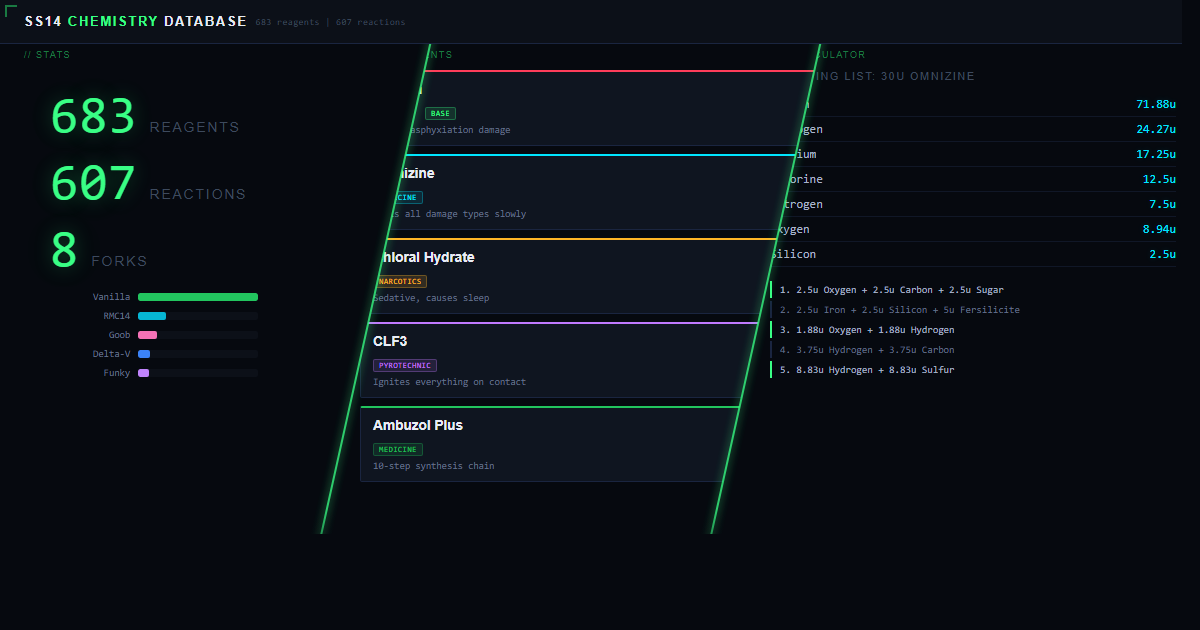
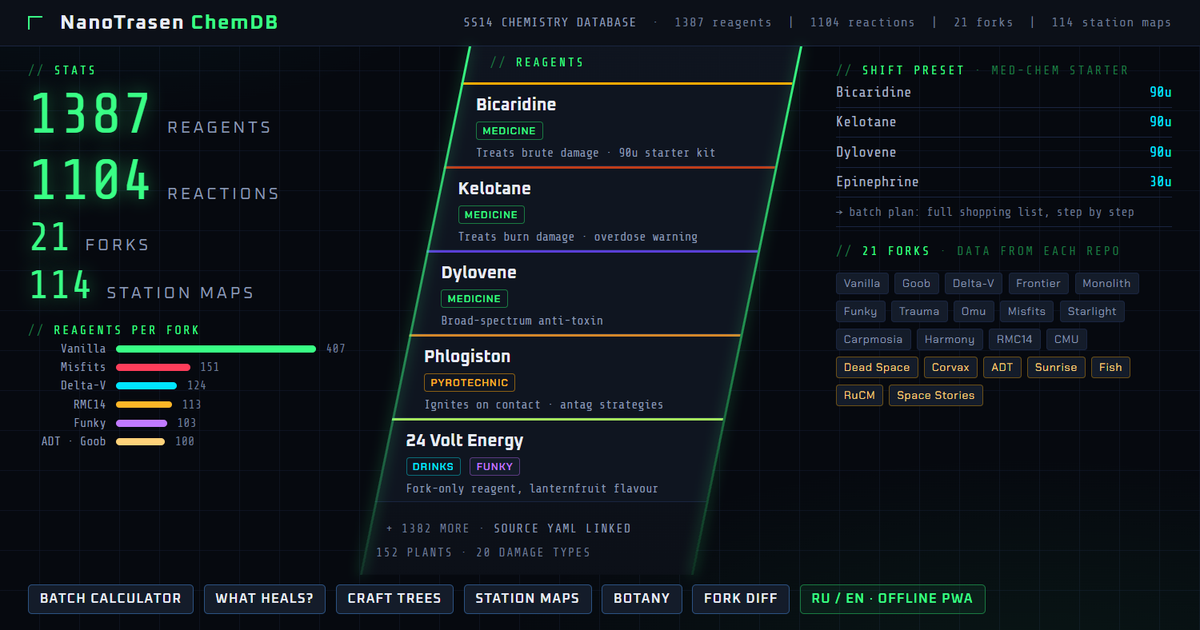
feat(seo): refresh the link-preview image
og-image.png was the April composition (683 reagents, 607 reactions,
8 forks). Re-rendered at 1200x630 from scripts/og-image.html on the site's
own palette and fonts: 1387 reagents, 1104 reactions, 21 forks, 114 station
maps, reagent cards, the med-chem starter preset, all 21 fork chips and the
current feature row. The matching og:image ?v=2 cache-bust and description
update in index.html landed in 69d7130.

diff --git a/scripts/og-image.html b/scripts/og-image.html
@@ -1,0 +1,160 @@
+<!doctype html>
+<!--
+  Source of og-image.png (1200x630 link preview for Discord / Steam / Twitter).
+  Numbers are hand-written from data.json meta (reagents, reactions, forks) and
+  maps/index.json (station maps): refresh them, then render:
+    1. open this file in Chrome at exactly 1200x630 CSS px (Google Fonts must load);
+    2. screenshot the viewport (a 1.25 DPR capture is 1500x788 - downscale with LANCZOS);
+    3. save as og-image.png and bump ?v=N on og:image / twitter:image in index.html
+       so Discord and Steam refetch the preview instead of serving their cache.
+  Last rendered 2026-09-12 (data.json schema 3.12.0).
+-->
+<html lang="en">
+<head>
+<meta charset="utf-8">
+<title>og-image</title>
+<link rel="preconnect" href="https://fonts.googleapis.com">
+<link href="https://fonts.googleapis.com/css2?family=Share+Tech+Mono&family=Chakra+Petch:wght@400;600;700&family=Oxanium:wght@400;600;700&display=swap" rel="stylesheet">
+<style>
+  :root{
+    --hull:#06090f; --plate:#0c1018; --panel:#0f1520; --raised:#141c2a;
+    --phosphor:#39ff85; --phosphor-dim:#1a7a42; --amber:#ffb627; --cyan:#00e5ff;
+    --red:#ff3d5a; --violet:#c17aff; --bright:#e8ecf4; --main:#a8b4c8; --sub:#8a99b3; --ghost:#6b7a93;
+    --border:#1a2540; --border-active:#2c5282;
+  }
+  *{box-sizing:border-box}
+  html,body{margin:0;padding:0;background:var(--hull);width:1200px;height:630px;overflow:hidden}
+  body{position:relative;color:var(--main);font-family:'Share Tech Mono',Consolas,monospace;
+       background:
+         radial-gradient(900px 400px at 85% 110%, rgba(57,255,133,.06), transparent 60%),
+         radial-gradient(600px 300px at 10% -10%, rgba(0,229,255,.05), transparent 60%),
+         repeating-linear-gradient(0deg, transparent 0 39px, rgba(26,37,64,.35) 39px 40px),
+         repeating-linear-gradient(90deg, transparent 0 39px, rgba(26,37,64,.35) 39px 40px),
+         var(--hull);}
+  .bar{position:absolute;left:0;top:0;right:0;height:46px;background:var(--plate);border-bottom:1px solid var(--border);display:flex;align-items:center;padding:0 28px;gap:18px}
+  .corner{width:14px;height:14px;border-left:2px solid var(--phosphor);border-top:2px solid var(--phosphor)}
+  .brand{font-family:'Oxanium',sans-serif;font-weight:700;font-size:20px;letter-spacing:.06em;color:var(--bright)}
+  .brand em{font-style:normal;color:var(--phosphor)}
+  .bar .meta{margin-left:auto;font-size:13px;color:var(--ghost);letter-spacing:.04em}
+  .bar .meta b{color:var(--sub);font-weight:400}
+  .label{font-size:12px;letter-spacing:.18em;color:var(--phosphor-dim);text-transform:uppercase}
+  .label span{color:var(--phosphor)}
+
+  /* left: stats */
+  .stats{position:absolute;left:28px;top:64px;width:330px}
+  .stat{display:flex;align-items:baseline;gap:14px;margin-top:8px}
+  .stat .n{font-size:58px;line-height:1;color:var(--phosphor);text-shadow:0 0 18px rgba(57,255,133,.45)}
+  .stat .t{font-family:'Oxanium',sans-serif;font-size:16px;letter-spacing:.2em;color:var(--sub)}
+  .stat.small .n{font-size:40px}
+  .bars{margin-top:18px}
+  .bar-row{display:flex;align-items:center;gap:10px;font-size:12px;color:var(--sub);margin:5px 0}
+  .bar-row .k{width:78px;text-align:right}
+  .bar-row .b{height:7px;border-radius:4px;background:var(--phosphor)}
+  .bar-row .v{color:var(--ghost)}
+
+  /* middle: slanted card strip (top 46 → 575, slope 109px over 529px) */
+  .strip{position:absolute;left:360px;top:46px;width:440px;height:529px;clip-path:polygon(109px 0,440px 0,331px 529px,0 529px);background:linear-gradient(180deg,rgba(15,21,32,.95),rgba(12,16,24,.98))}
+  .edge{position:absolute;top:46px;height:529px;width:2px;background:linear-gradient(180deg,var(--phosphor),rgba(57,255,133,.15));transform-origin:top;transform:skewX(-11.64deg);box-shadow:0 0 12px rgba(57,255,133,.5)}
+  .edge.l{left:469px}.edge.r{left:800px}
+  .strip .head{position:absolute;left:130px;top:10px}
+  .card{position:absolute;left:0;width:440px;height:84px;background:var(--panel);border-bottom:1px solid var(--border);padding:12px 0 0 0}
+  .card .top{height:3px;width:100%;margin-top:-12px;margin-bottom:10px}
+  .card .name{font-family:'Oxanium',sans-serif;font-weight:700;font-size:17px;color:var(--bright)}
+  .card .chip{display:inline-block;margin-top:6px;font-family:'Chakra Petch',sans-serif;font-weight:600;font-size:10px;letter-spacing:.1em;padding:2px 6px;border:1px solid;border-radius:3px}
+  .card .desc{margin-top:6px;font-size:12px;color:var(--sub)}
+  .chip.med{color:var(--phosphor);border-color:var(--phosphor-dim)}
+  .chip.pyro{color:var(--amber);border-color:#8a5f14}
+  .chip.drink{color:var(--cyan);border-color:#0b6b78}
+  .chip.fork{color:var(--violet);border-color:#5a3a80}
+
+  /* right: preset + forks */
+  .right{position:absolute;left:836px;top:64px;width:336px}
+  .row{display:flex;justify-content:space-between;font-size:14px;color:var(--main);border-bottom:1px solid var(--border);padding:7px 0}
+  .row b{color:var(--cyan);font-weight:400}
+  .row .step{color:var(--ghost);font-size:12px}
+  .forks{margin-top:14px;display:flex;flex-wrap:wrap;gap:6px}
+  .fork{font-family:'Chakra Petch',sans-serif;font-size:11px;letter-spacing:.06em;color:var(--sub);border:1px solid var(--border);border-radius:3px;padding:3px 7px;background:var(--raised)}
+  .fork.ru{color:#ffd27a;border-color:#6b4f16}
+
+  /* bottom: features (top edge at 586) */
+  .features{position:absolute;left:28px;right:28px;bottom:16px;display:flex;gap:10px;align-items:center}
+  .feat{font-family:'Oxanium',sans-serif;font-weight:600;font-size:13px;letter-spacing:.08em;color:var(--bright);background:var(--raised);border:1px solid var(--border-active);border-radius:4px;padding:6px 11px}
+  .feat.ru{color:var(--phosphor);border-color:var(--phosphor-dim);background:rgba(57,255,133,.06)}
+</style>
+</head>
+<body>
+  <div class="bar">
+    <div class="corner"></div>
+    <div class="brand">NanoTrasen <em>ChemDB</em></div>
+    <div class="meta"><b>SS14 CHEMISTRY DATABASE</b> &nbsp;·&nbsp; 1387 reagents &nbsp;|&nbsp; 1104 reactions &nbsp;|&nbsp; 21 forks &nbsp;|&nbsp; 114 station maps</div>
+  </div>
+
+  <div class="stats">
+    <div class="label">// <span>stats</span></div>
+    <div class="stat"><div class="n">1387</div><div class="t">REAGENTS</div></div>
+    <div class="stat"><div class="n">1104</div><div class="t">REACTIONS</div></div>
+    <div class="stat small"><div class="n">21</div><div class="t">FORKS</div></div>
+    <div class="stat small"><div class="n">114</div><div class="t">STATION MAPS</div></div>
+    <div class="bars">
+      <div class="label">// <span>reagents per fork</span></div>
+      <div class="bar-row"><span class="k">Vanilla</span><span class="b" style="width:200px"></span><span class="v">407</span></div>
+      <div class="bar-row"><span class="k">Misfits</span><span class="b" style="width:74px;background:var(--red)"></span><span class="v">151</span></div>
+      <div class="bar-row"><span class="k">Delta-V</span><span class="b" style="width:61px;background:var(--cyan)"></span><span class="v">124</span></div>
+      <div class="bar-row"><span class="k">RMC14</span><span class="b" style="width:56px;background:var(--amber)"></span><span class="v">113</span></div>
+      <div class="bar-row"><span class="k">Funky</span><span class="b" style="width:51px;background:var(--violet)"></span><span class="v">103</span></div>
+      <div class="bar-row"><span class="k">ADT · Goob</span><span class="b" style="width:49px;background:#ffd27a"></span><span class="v">100</span></div>
+    </div>
+  </div>
+
+  <div class="strip">
+    <div class="head label">// <span>reagents</span></div>
+    <div class="card" style="top:36px"><div class="top" style="background:#ffaa00"></div>
+      <div class="name" style="padding-left:116px">Bicaridine</div>
+      <div style="padding-left:116px"><span class="chip med">MEDICINE</span></div>
+      <div class="desc" style="padding-left:116px">Treats brute damage · 90u starter kit</div></div>
+    <div class="card" style="top:120px"><div class="top" style="background:#bf3d19"></div>
+      <div class="name" style="padding-left:98px">Kelotane</div>
+      <div style="padding-left:98px"><span class="chip med">MEDICINE</span></div>
+      <div class="desc" style="padding-left:98px">Treats burn damage · overdose warning</div></div>
+    <div class="card" style="top:204px"><div class="top" style="background:#5a3fd6"></div>
+      <div class="name" style="padding-left:81px">Dylovene</div>
+      <div style="padding-left:81px"><span class="chip med">MEDICINE</span></div>
+      <div class="desc" style="padding-left:81px">Broad-spectrum anti-toxin</div></div>
+    <div class="card" style="top:288px"><div class="top" style="background:#D4872A"></div>
+      <div class="name" style="padding-left:64px">Phlogiston</div>
+      <div style="padding-left:64px"><span class="chip pyro">PYROTECHNIC</span></div>
+      <div class="desc" style="padding-left:64px">Ignites on contact · antag strategies</div></div>
+    <div class="card" style="top:372px"><div class="top" style="background:#a5e65d"></div>
+      <div class="name" style="padding-left:46px">24 Volt Energy</div>
+      <div style="padding-left:46px"><span class="chip drink">DRINKS</span> <span class="chip fork">FUNKY</span></div>
+      <div class="desc" style="padding-left:46px">Fork-only reagent, lanternfruit flavour</div></div>
+    <div class="label" style="position:absolute;left:26px;top:476px;color:var(--ghost);white-space:nowrap;letter-spacing:.1em">+ 1382 more · <span style="color:var(--sub)">source YAML linked</span></div>
+    <div class="label" style="position:absolute;left:16px;top:500px;color:var(--ghost);white-space:nowrap;letter-spacing:.1em">152 plants · 20 damage types</div>
+  </div>
+  <div class="edge l"></div>
+  <div class="edge r"></div>
+
+  <div class="right">
+    <div class="label">// <span>shift preset</span> · med-chem starter</div>
+    <div class="row"><span>Bicaridine</span><b>90u</b></div>
+    <div class="row"><span>Kelotane</span><b>90u</b></div>
+    <div class="row"><span>Dylovene</span><b>90u</b></div>
+    <div class="row"><span>Epinephrine</span><b>30u</b></div>
+    <div class="row"><span class="step">→ batch plan: full shopping list, step by step</span></div>
+    <div class="label" style="margin-top:18px">// <span>21 forks</span> · data from each repo</div>
+    <div class="forks">
+      <span class="fork">Vanilla</span><span class="fork">Goob</span><span class="fork">Delta-V</span><span class="fork">Frontier</span><span class="fork">Monolith</span><span class="fork">Funky</span><span class="fork">Trauma</span><span class="fork">Omu</span><span class="fork">Misfits</span><span class="fork">Starlight</span><span class="fork">Carpmosia</span><span class="fork">Harmony</span><span class="fork">RMC14</span><span class="fork">CMU</span><span class="fork ru">Dead Space</span><span class="fork ru">Corvax</span><span class="fork ru">ADT</span><span class="fork ru">Sunrise</span><span class="fork ru">Fish</span><span class="fork ru">RuCM</span><span class="fork ru">Space Stories</span>
+    </div>
+  </div>
+
+  <div class="features">
+    <span class="feat">BATCH CALCULATOR</span>
+    <span class="feat">WHAT HEALS?</span>
+    <span class="feat">CRAFT TREES</span>
+    <span class="feat">STATION MAPS</span>
+    <span class="feat">BOTANY</span>
+    <span class="feat">FORK DIFF</span>
+    <span class="feat ru">RU / EN · OFFLINE PWA</span>
+  </div>
+</body>
+</html>
